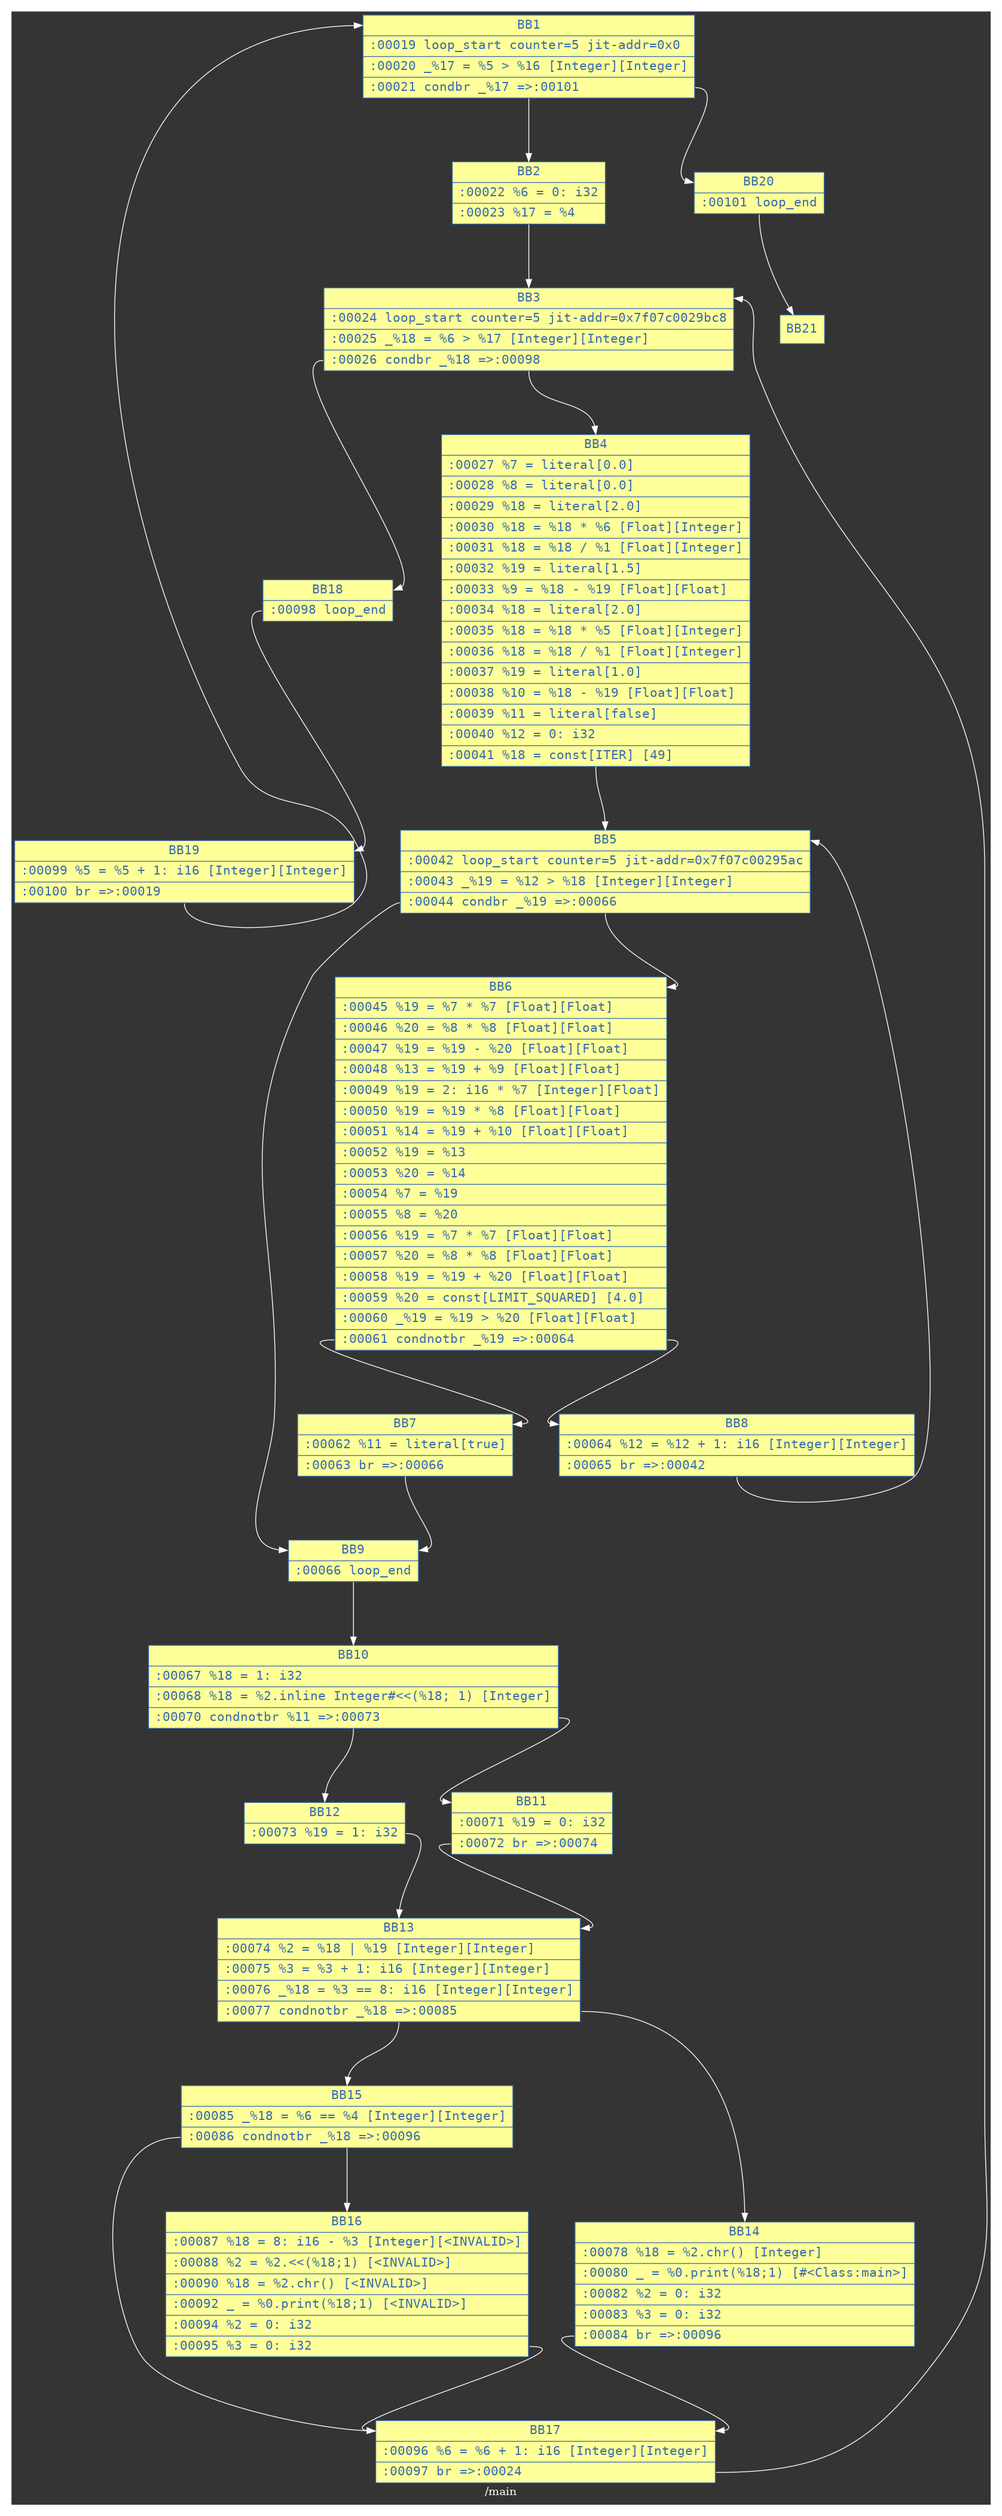
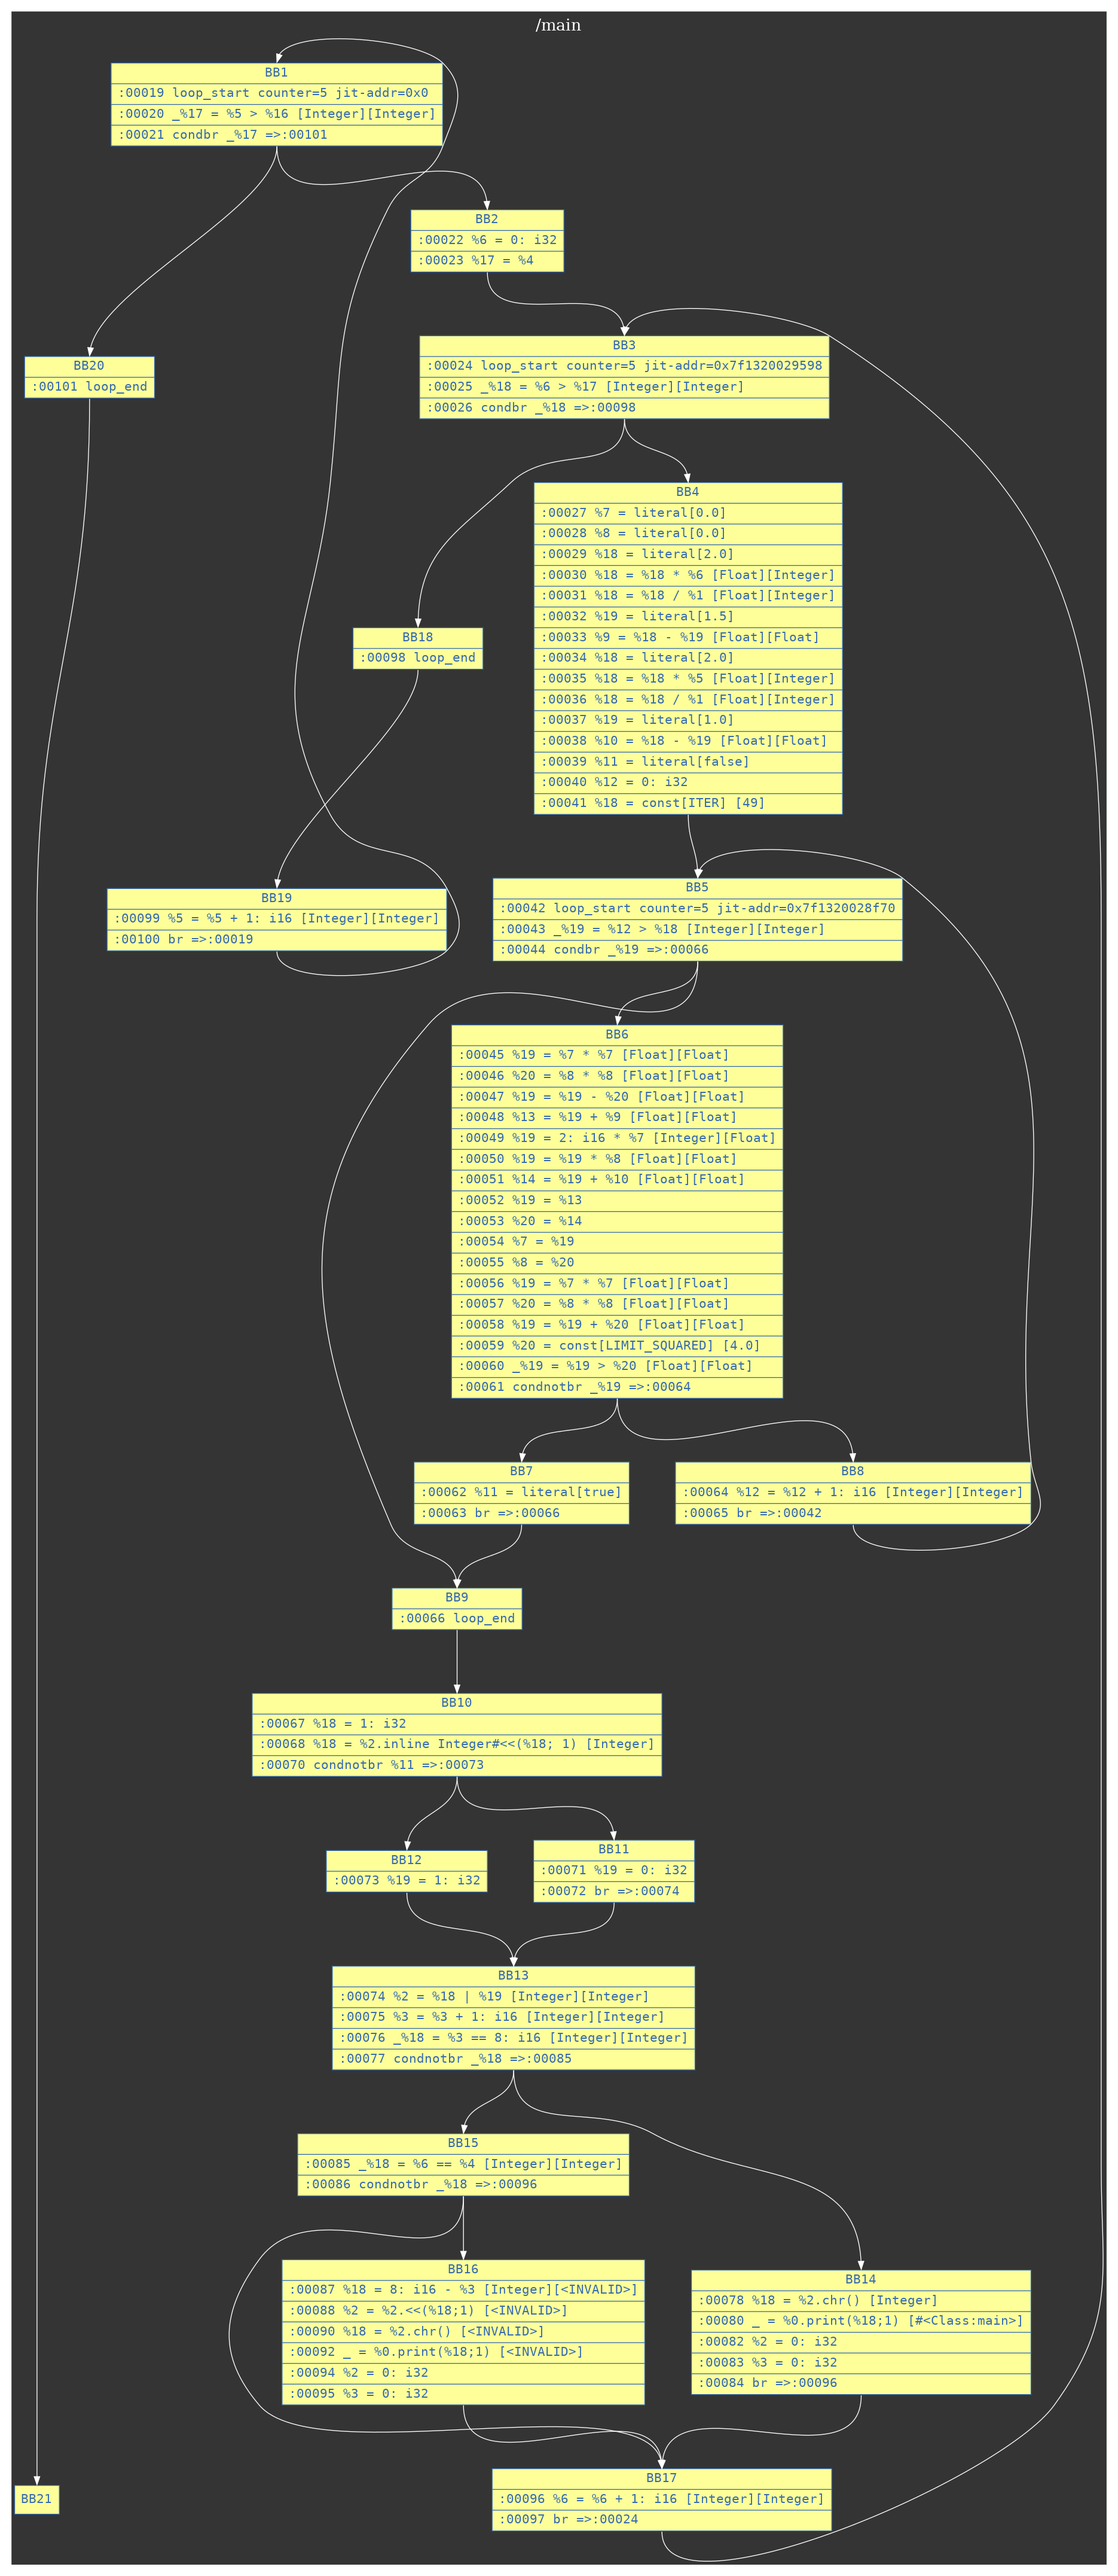
Refactor.

diff --git a/monoruby/src/compiler/jitgen.rs b/monoruby/src/compiler/jitgen.rs
@@ -1356,8 +1356,11 @@ impl Codegen {
   graph [
     charset = "UTF-8";
     label = "{}",
+    labelloc = "t",
+    labeljust = "c",
     bgcolor = "#343434",
     fontcolor = white,
+    fontsize = 20,
     rankdir = TB,
     margin = 0.2,
     splines = spline,
@@ -1390,25 +1393,26 @@ impl Codegen {
         );
         s += "\n";
         for bbid in bb_begin..=bb_end {
-            s += &format!(
-                "  {:?} [\n    shape=record\n    label=\"{{<in>{:?}",
-                bbid, bbid
-            );
+            s += &format!("  {:?} [\n    shape=record\n    label=\"{{{:?}", bbid, bbid);
             let BasciBlockInfoEntry { begin, end, .. } = func.bb_info[bbid];
             for bc in begin..=end {
                 let pc = func.get_pc(bc);
                 if let Some(inst) = pc.trace_ir(store).format(store, bc.to_usize()) {
                     s += "|";
                     let html = html_escape::encode_text(&inst).replace('|', "\\|");
-                    if bc == end {
-                        s += "<out>";
-                    }
                     s += &format!("{} {}\\l", bc, html);
                 }
             }
             s += "}\"\n  ];\n";
         }
-        s += &func.bb_info.dump_edges(bb_begin, bb_end);
+
+        for bbid in bb_begin..=bb_end {
+            let entry = &func.bb_info[bbid];
+            for succ in &entry.succ {
+                s += &format!("  {:?} -> {:?} [headport = n, tailport = s];\n", bbid, succ);
+            }
+        }
+
         s += "}\n";
         std::fs::write("dump.dot", s).unwrap();
     }

diff --git a/monoruby/src/compiler/jitgen/basic_block.rs b/monoruby/src/compiler/jitgen/basic_block.rs
@@ -191,19 +191,6 @@ impl BasicBlockInfo {
     }
 }
 
-impl BasicBlockInfo {
-    pub(crate) fn dump_edges(&self, bb_begin: BasicBlockId, bb_end: BasicBlockId) -> String {
-        let mut s = String::new();
-        for bbid in bb_begin..=bb_end {
-            let entry = &self[bbid];
-            for succ in &entry.succ {
-                s += &format!("  {:?}:out -> {:?}:in;\n", bbid, succ);
-            }
-        }
-        s
-    }
-}
-
 #[derive(Clone, Default)]
 pub(crate) struct BasciBlockInfoEntry {
     pub begin: BcIndex,
